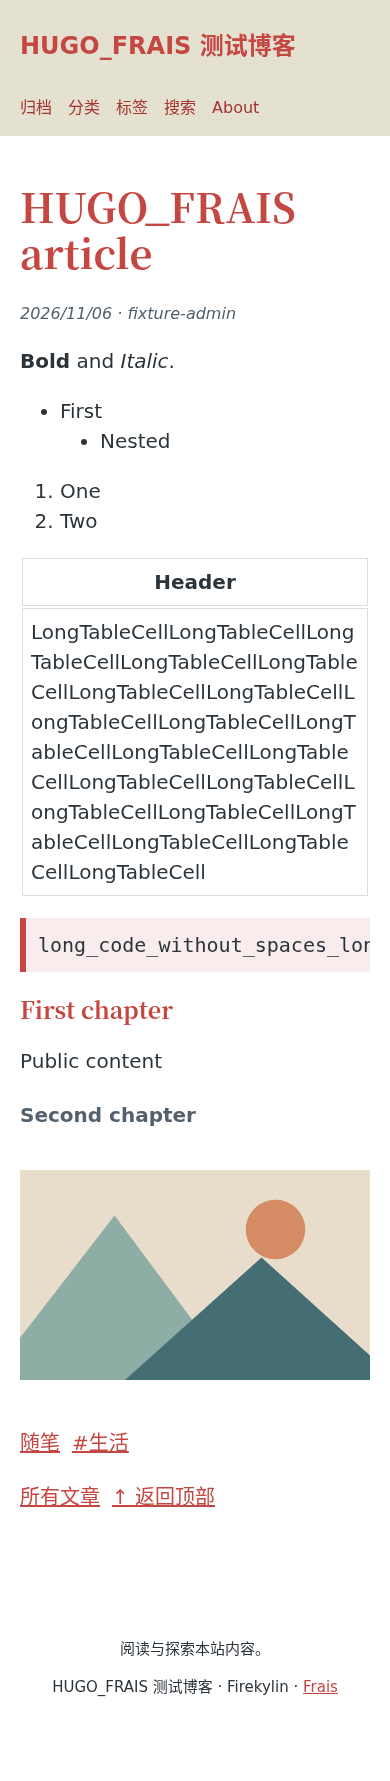
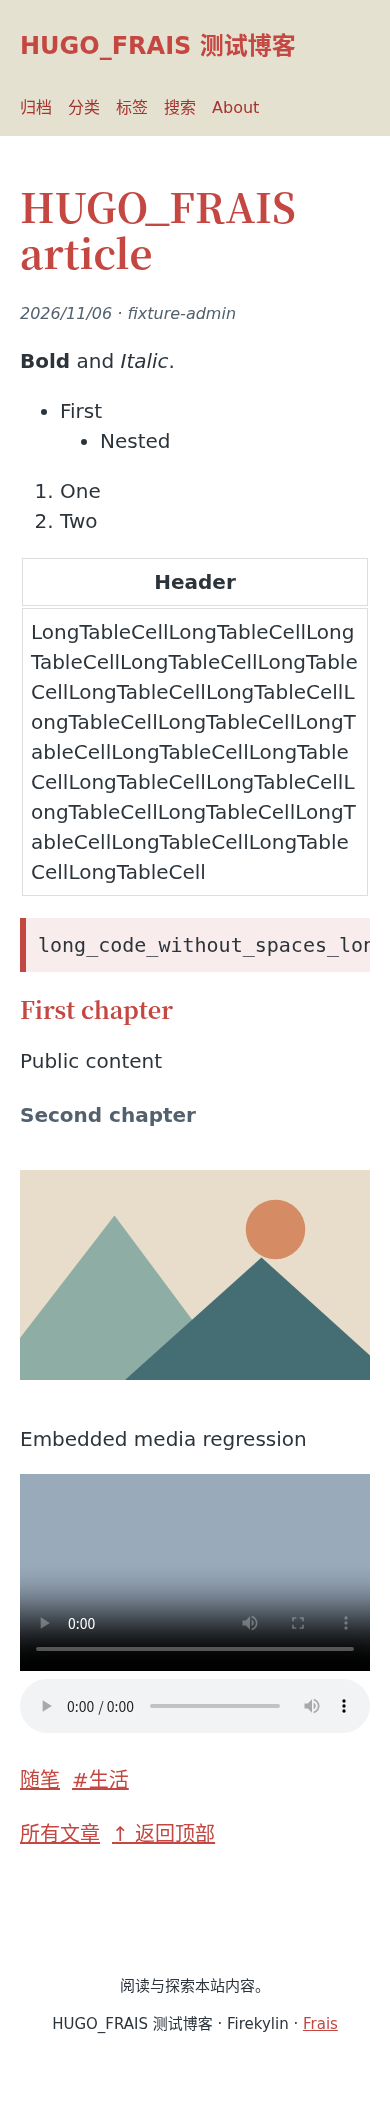
fix(frais): contain native embedded video and audio

diff --git a/packages/hugo-frais/res/css/theme.css b/packages/hugo-frais/res/css/theme.css
@@ -815,3 +815,6 @@ h2, h4, h6 {
 body{overflow-wrap:anywhere}.skip{position:absolute;top:-100px}.skip:focus{top:0;z-index:99}.native-nav{display:flex;flex-wrap:wrap;gap:10px 16px;margin:18px 0}.prose pre,.prose table{display:block;max-width:100%;overflow:auto}.prose img,.attachment-media img{max-width:100%;height:auto;margin:1rem 0}.attachment-media video,.attachment-media audio,.prose iframe{max-width:100%}.prose ul{list-style:disc}.prose ol{list-style:decimal}.prose li{display:list-item}.pagination{display:flex;justify-content:space-between;gap:12px;margin:32px 0}.post-actions,.tags{display:flex;gap:12px;flex-wrap:wrap;margin:24px 0}input,button{font:inherit;max-width:100%;box-sizing:border-box}form{display:flex;flex-wrap:wrap;gap:10px}input{min-width:0}:focus-visible{outline:2px solid currentColor;outline-offset:3px}
 
 :root{color-scheme:light}body{background:#fff}.header-wrapper{box-sizing:border-box;display:flex;align-items:center;justify-content:space-between;gap:20px;flex-wrap:wrap;background:#E5E1D1;padding:.5em 1.5em}.header-wrapper .headline{padding:0;background:transparent}.native-nav{font-size:.8em;margin:0}.native-nav a{color:#a5342f}.content{box-sizing:border-box;padding-top:35px}.post__title{line-height:1.2}.post-detail .post-title{font-size:3em;line-height:1.15}.post-detail .post-date{font-size:.8em;color:#52616D;font-style:italic}.post__meta{font-size:.8em}.native-footer{text-align:center;max-width:40em;margin:3em auto;padding:1.5em;font-size:.75em}.prose pre{background:rgba(196,71,65,.1);border-left:6px solid #C44741;padding:12px}.prose pre code{display:inline;background:transparent;border:0;margin:0;padding:0;color:inherit}.prose p code{display:inline;border-left:0;padding:2px 4px;margin:0}.prose table th,.prose table td{padding:8px;border:1px solid #ddd}.post--preview{margin-bottom:3em}.post__excerpt{margin-top:1.2em}@media(max-width:600px){.header-wrapper{padding:16px 20px}.headline__title{font-size:1.2em}.content{padding:20px}.post-detail .post-title{font-size:2em}}
+
+/* Native post/page media may declare dimensions wider than the reading column. */
+.prose video,.prose audio{max-width:100%;box-sizing:border-box}.prose video{height:auto}
